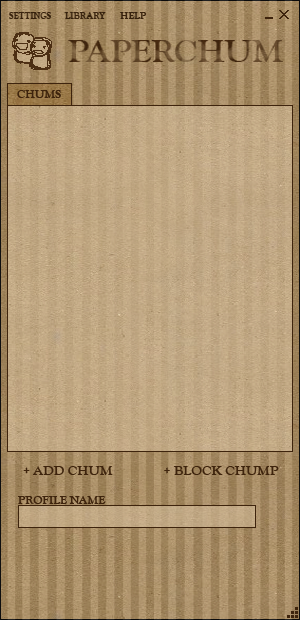
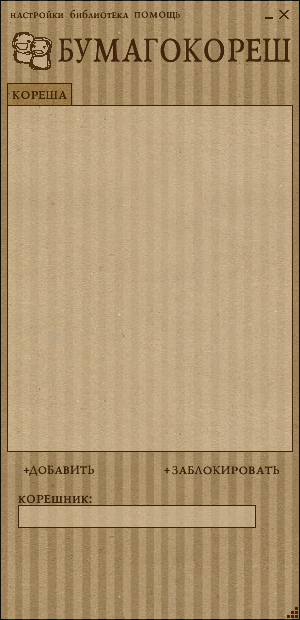
Перевод paperchum
+ исправление некоторых ошибок

diff --git a/themes/strifekind/style.js b/themes/strifekind/style.js
@@ -15,7 +15,7 @@
               "ceasesound": "$path/cease.wav" },
   "defaultwindow": { "style": "background: #FFFFFF; font-family:'Courier';font:bold;selection-background-color:black; " },
   "chums": { "style": "border:2px solid #FFFFFF; background-color: #FFFFFF;color: #000000;font: bold;font-size:14px;font-family: 'Courier';selection-background-color:black; ",
-             "userlistcolor": "00C661", 
+             "userlistcolor": "00C661",
              "moods": { 
 
                  "chummy": { "icon": "$path/chummy.png", "color": "#000000" },
@@ -82,7 +82,8 @@
             },
   "block": { "style": "background: #00E371; border:2px solid #0E6037; font: bold; color: #000000; font-family:'Courier';"
            },
-  "moodlabel": { "style": "font:bold;font-family:'Courier';color:#008C45;"
+  "moodlabel": { "style": "font:bold;font-family:'Courier';color:#008C45;",
+                 "text": ""
                },
   "defaultmood": 18,
   "moods": [
